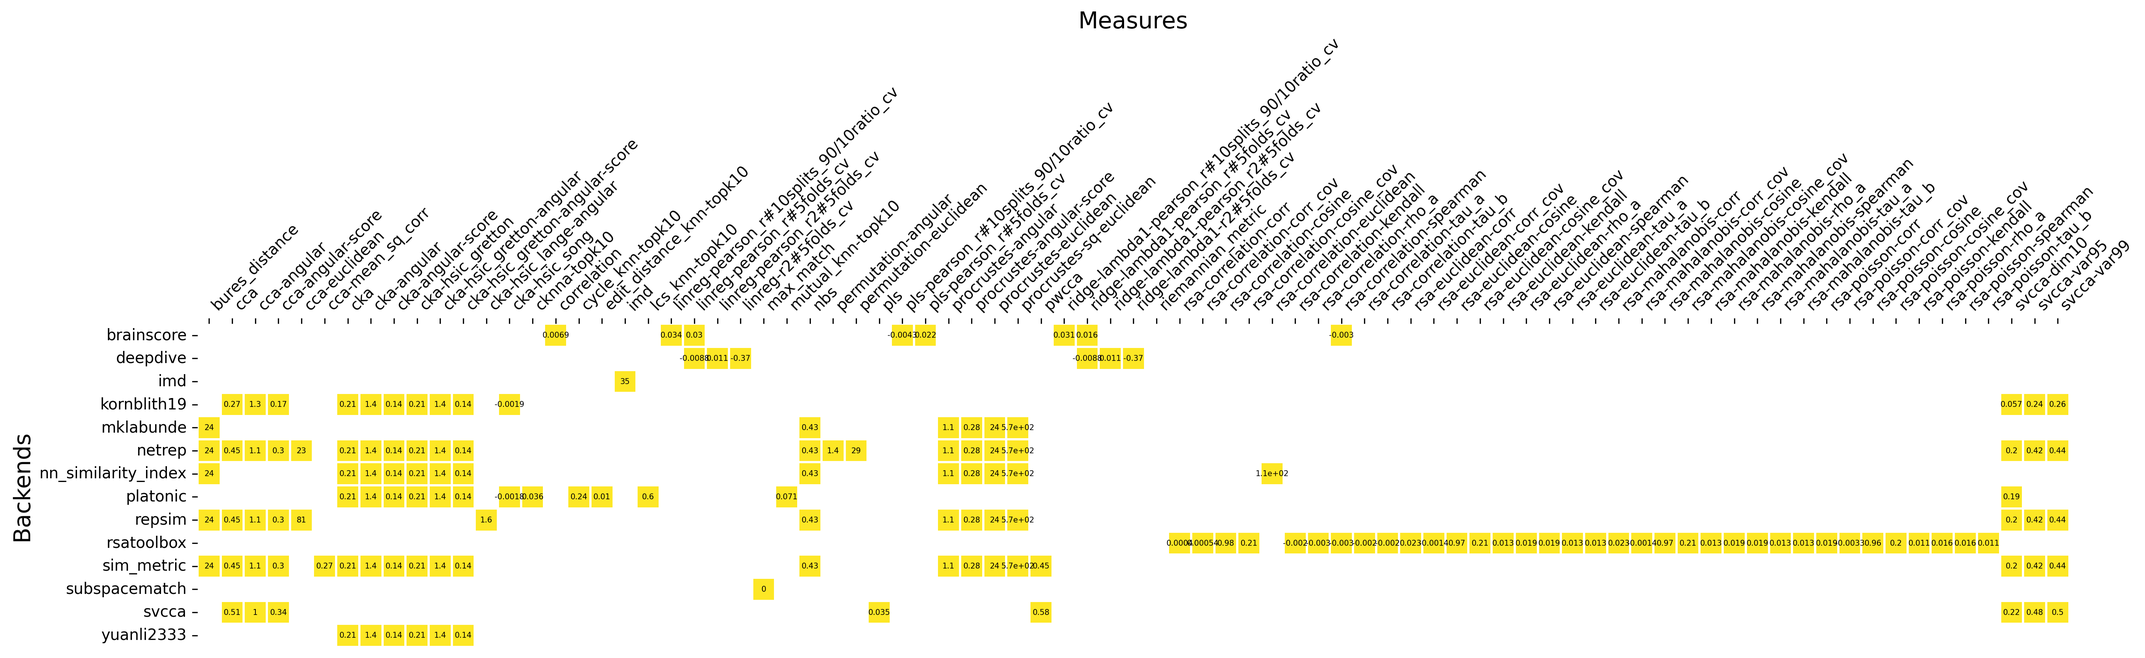
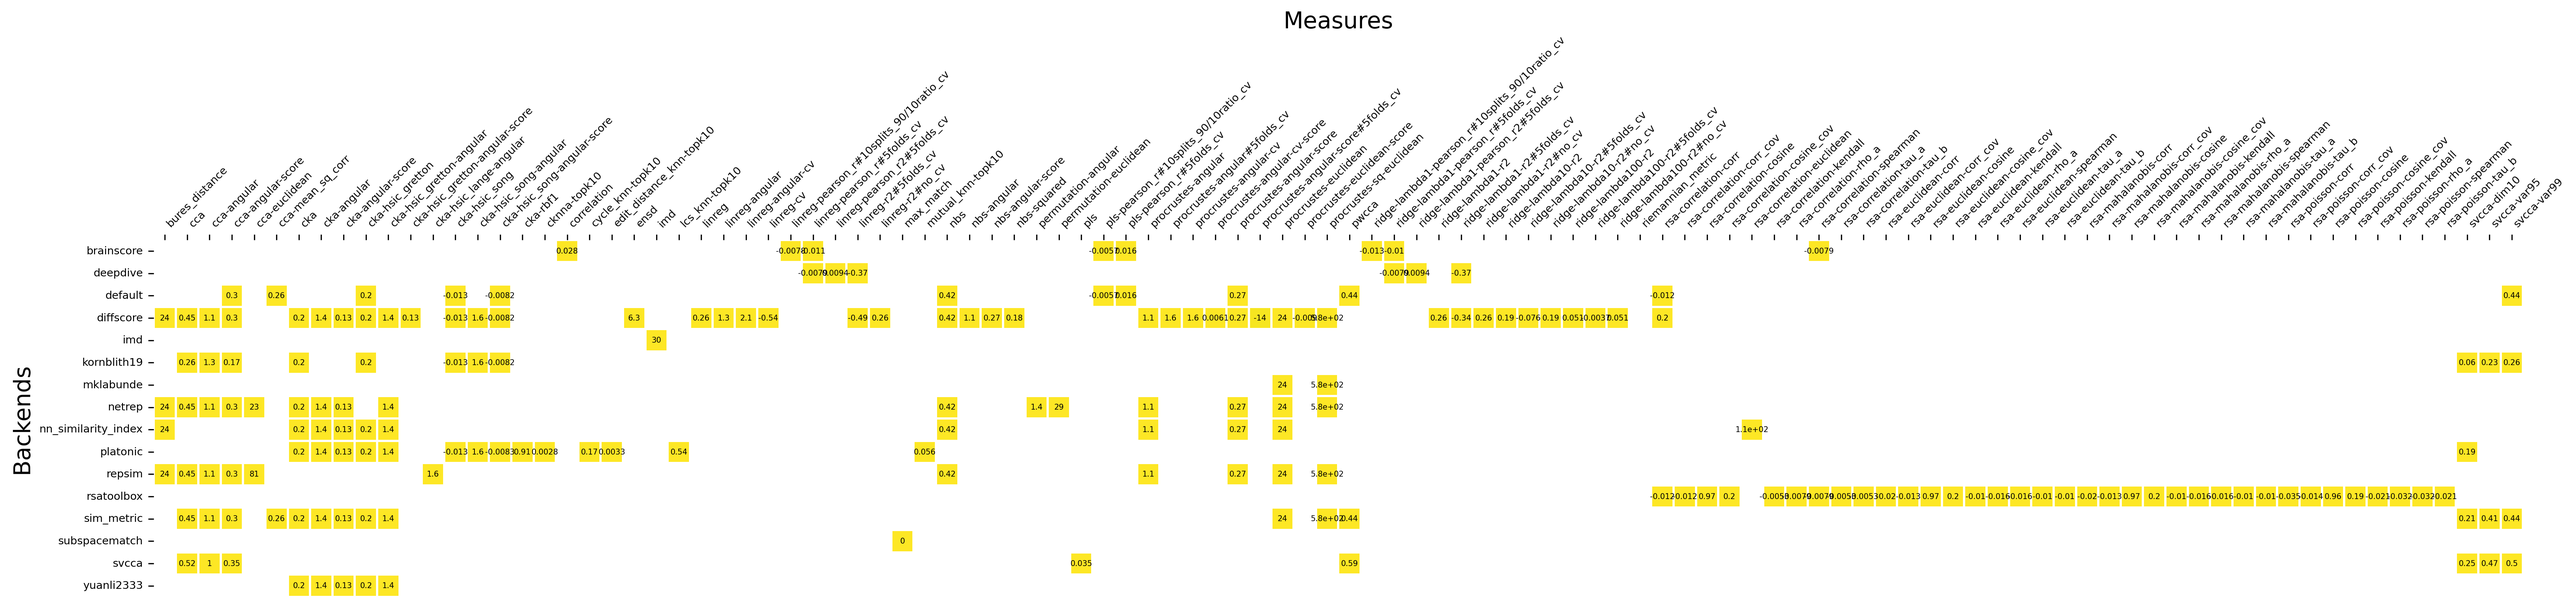
add default backend

diff --git a/similarity/transforms.py b/similarity/transforms.py
@@ -40,22 +40,28 @@ transforms = [
     },
 
     # Duality of Bures and Shape Distances with Implications for Comparing Neural Representations (Harvey et al., 2023)
-    {"inp": "nbs", "out": "procrustes-angular", "postprocessing": ["arccos"]},
-    {"inp": "bures_distance", "out": "procrustes-euclidean", "postprocessing": []},
-    {"inp": "procrustes-euclidean", "out": "bures_distance", "postprocessing": []},
+    {"inp": "nbs",                  "out": "procrustes-angular",                "postprocessing": ["arccos"]},
+    {"inp": "bures_distance",       "out": "procrustes-euclidean",              "postprocessing": []},
+    {"inp": "procrustes-euclidean", "out": "bures_distance",                    "postprocessing": []},
 
     # by default CKA usually refers to the Gretton2007 estimate of HSIC
     # see https://proceedings.mlr.press/v221/lange23a/lange23a.pdf Appendix B. for a review of different CKA variants
-    {"inp": "cka", "out": "cka-hsic_gretton", "postprocessing": []},
-    {"inp": "cka-hsic_gretton", "out": "cka", "postprocessing": []},
-    {"inp": "cka-angular", "out": "cka-hsic_gretton-angular", "postprocessing": []},
-    {"inp": "cka-angular-score", "out": "cka-hsic_gretton-angular-score", "postprocessing": []},
+    {"inp": "cka",                  "out": "cka-hsic_gretton",                  "postprocessing": []},
+    {"inp": "cka-hsic_gretton",     "out": "cka",                               "postprocessing": []},
+    {"inp": "cka-angular",          "out": "cka-hsic_gretton-angular",          "postprocessing": []},
+    {"inp": "cka-angular-score",    "out": "cka-hsic_gretton-angular-score",    "postprocessing": []},
+    {"inp": "cka-hsic_gretton-angular", "out": "cka-angular",                   "postprocessing": []},
+    {"inp": "cka-hsic_gretton-angular-score", "out": "cka-angular-score",       "postprocessing": []},
+
+    # unbiased CKA (Song et al. 2012)
+    {"inp": "cka-hsic_song",        "out": "cka-hsic_song-angular",             "postprocessing": ["arccos"]},
+    {"inp": "cka-hsic_song-angular", "out": "cka-hsic_song-angular-score",      "postprocessing": ["normalize_pi_half", "one_minus"]},
 
     # rescale angular distances to scores in [0, 1]
-    {"inp": "procrustes-angular", "out": "procrustes-angular-score", "postprocessing": ["normalize_pi_half", "one_minus"]},
-    {"inp": "cka-angular", "out": "cka-angular-score", "postprocessing": ["normalize_pi_half", "one_minus"]},
-    {"inp": "cca-angular", "out": "cca-angular-score", "postprocessing": ["normalize_pi_half", "one_minus"]},
-    {"inp": "nbs-angular", "out": "nbs-angular-score", "postprocessing": ["normalize_pi_half", "one_minus"]},
+    {"inp": "procrustes-angular",   "out": "procrustes-angular-score",          "postprocessing": ["normalize_pi_half", "one_minus"]},
+    {"inp": "cka-angular",          "out": "cka-angular-score",                 "postprocessing": ["normalize_pi_half", "one_minus"]},
+    {"inp": "cca-angular",          "out": "cca-angular-score",                 "postprocessing": ["normalize_pi_half", "one_minus"]},
+    {"inp": "nbs-angular",          "out": "nbs-angular-score",                 "postprocessing": ["normalize_pi_half", "one_minus"]},
 ]
 
 # inverse functions used to automatically add inverse transforms to the list of transforms

diff --git a/similarity/backend/default.py b/similarity/backend/default.py
@@ -1,5 +1,5 @@
 from functools import partial
-from similarity import register, make
+from similarity import register, make, is_registered
 
 
 defaults = {
@@ -7,11 +7,15 @@ defaults = {
     "nbs":                              "netrep",
     "rsa-correlation-corr":             "rsatoolbox",
     # cka variants
-    "cka-hsic_gretton":                 "kornblith19",
-    "cka-hsic_gretton-angular-score":   "kornblith19",
+    # "cka-hsic_gretton":                 "kornblith19",
+    # "cka-hsic_gretton-angular-score":   "kornblith19",
+    # "cka-hsic_song":                    "kornblith19",
+    # "cka-hsic_song-angular-score":      "kornblith19",
+    "cka-hsic_gretton":                 "yuanli2333",
+    "cka-hsic_gretton-angular-score":   "yuanli2333",
     "cka-hsic_song":                    "kornblith19",
-    "cka-hsic_song-angular":            "kornblith19",
-    "cka-hsic_lange-angular":           "repsim",
+    "cka-hsic_song-angular-score":      "kornblith19",
+    "cka-hsic_lange-angular-score":     "repsim",
     # cca variants
     "svcca-var99":                      "sim_metric",
     "pwcca":                            "sim_metric",
@@ -23,9 +27,19 @@ defaults = {
 }
 
 
+# TODO: error     "cka-hsic_song-angular-score":      "kornblith19",
+
+
 # register all defaults
 for measure, backend in defaults.items():
+    try:
+        make(f"measure.{backend}.{measure}")
+    except:
+        print(f"Could not register {measure} from {backend}")
+        continue
+
     register(
         f"measure.default.{measure}",
         partial(make, f"measure.{backend}.{measure}")
     )
+    

diff --git a/similarity/__init__.py b/similarity/__init__.py
@@ -1,6 +1,8 @@
 # important to import registration first so that make and register can be imported from similarity
 from .registration import make, register, is_registered, match, MeasureInterface, Measure
+
 from .types import MeasureIdType, BackendIdType
+
 from . import processing
 from . import backend
 from . import cards
